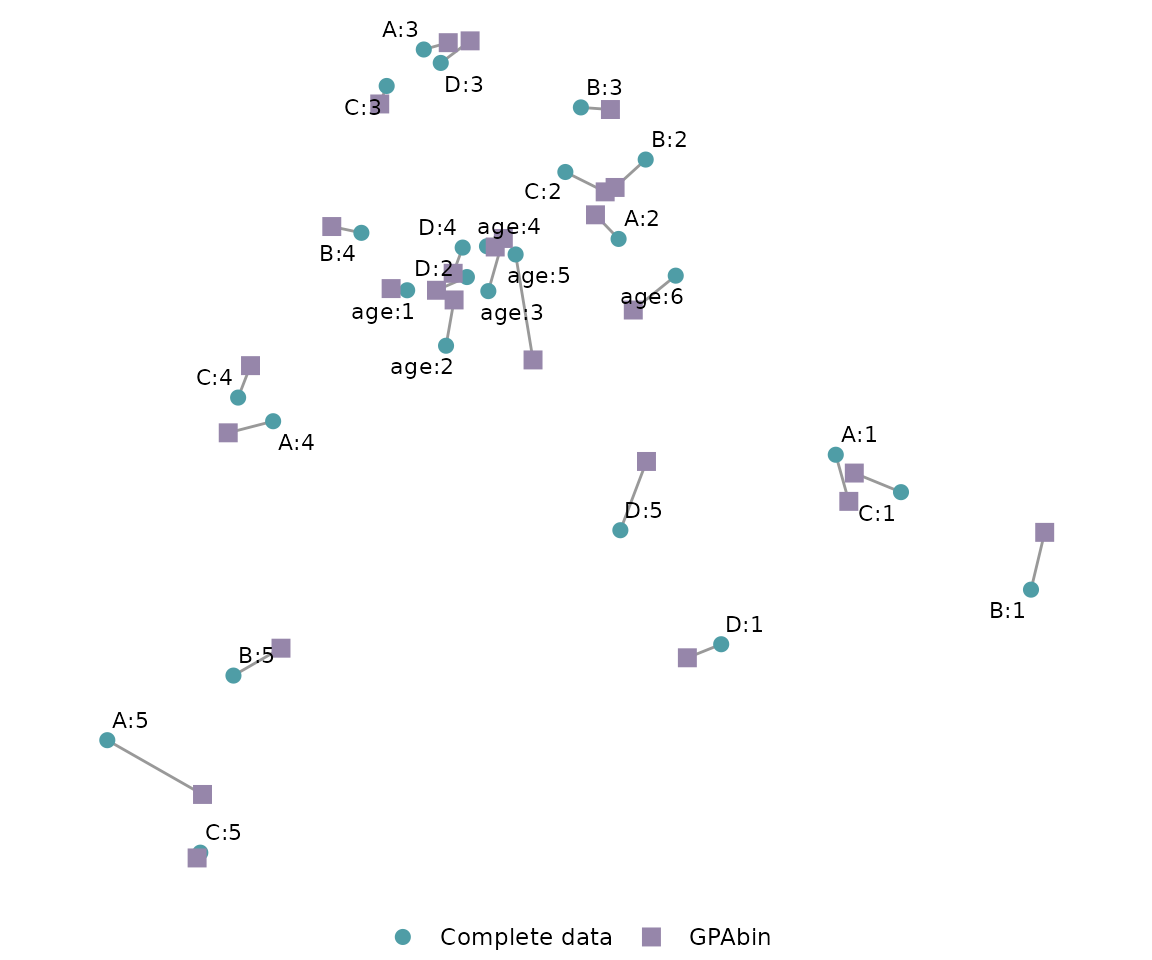
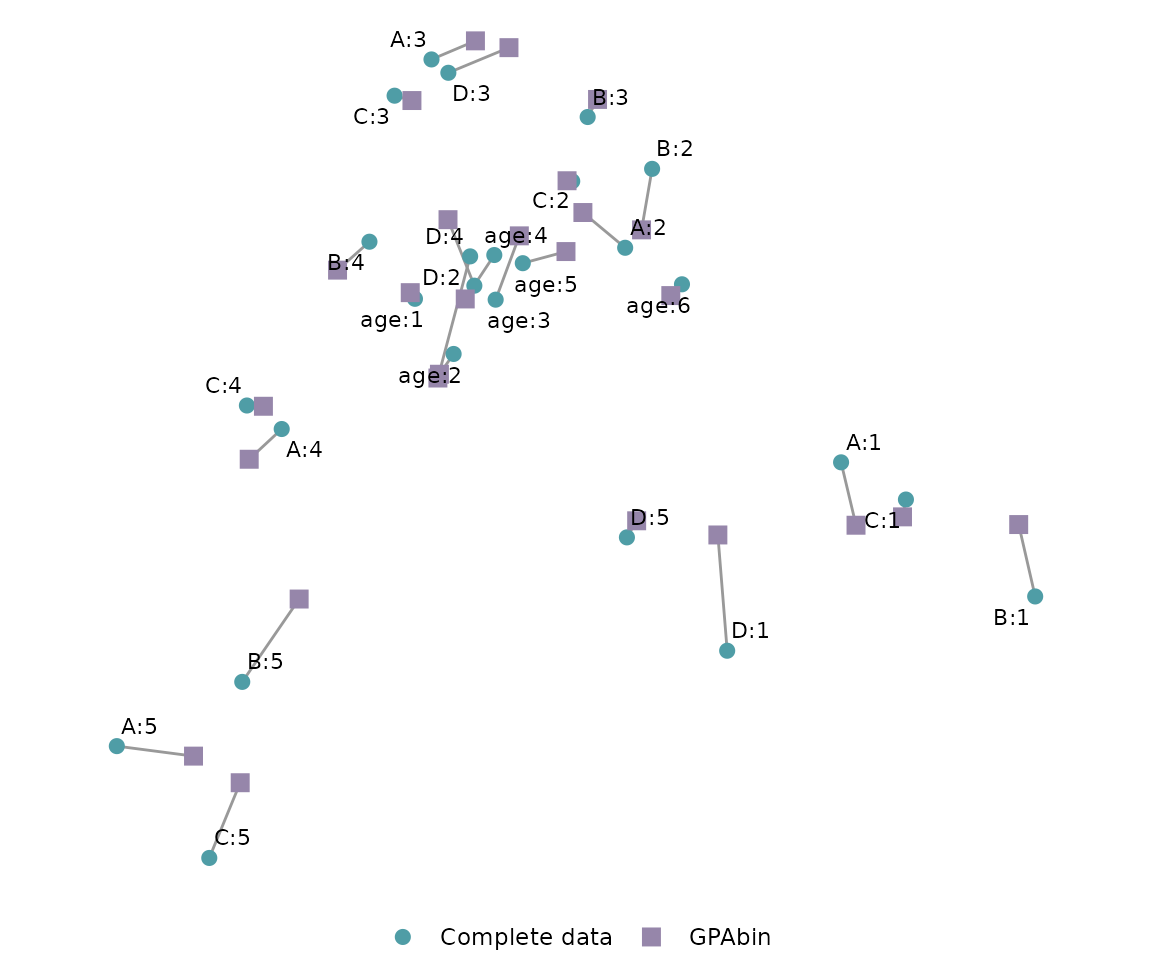
Deploying to gh-pages from @ jnienk/GPAbin@68e3c36781d71b4ac56901b5387d6e580959e749 🚀

diff --git a/reference/plot.missmi.html b/reference/plot.missmi.html
@@ -1,5 +1,7 @@
 <!DOCTYPE html>
-<!-- Generated by pkgdown: do not edit by hand --><html lang="en"><head><meta http-equiv="Content-Type" content="text/html; charset=UTF-8"><meta charset="utf-8"><meta http-equiv="X-UA-Compatible" content="IE=edge"><meta name="viewport" content="width=device-width, initial-scale=1, shrink-to-fit=no"><title>Biplot function — plot.missmi • GPAbin</title><!-- favicons --><link rel="icon" type="image/png" sizes="96x96" href="../favicon-96x96.png"><link rel="icon" type="”image/svg+xml”" href="../favicon.svg"><link rel="apple-touch-icon" sizes="180x180" href="../apple-touch-icon.png"><link rel="icon" sizes="any" href="../favicon.ico"><link rel="manifest" href="../site.webmanifest"><script src="../deps/jquery-3.6.0/jquery-3.6.0.min.js"></script><meta name="viewport" content="width=device-width, initial-scale=1, shrink-to-fit=no"><link href="../deps/bootstrap-5.3.8/bootstrap.min.css" rel="stylesheet"><script src="../deps/bootstrap-5.3.8/bootstrap.bundle.min.js"></script><link href="../deps/font-awesome-6.5.2/css/all.min.css" rel="stylesheet"><link href="../deps/font-awesome-6.5.2/css/v4-shims.min.css" rel="stylesheet"><script src="../deps/headroom-0.11.0/headroom.min.js"></script><script src="../deps/headroom-0.11.0/jQuery.headroom.min.js"></script><script src="../deps/bootstrap-toc-1.0.1/bootstrap-toc.min.js"></script><script src="../deps/clipboard.js-2.0.11/clipboard.min.js"></script><script src="../deps/search-1.0.0/autocomplete.jquery.min.js"></script><script src="../deps/search-1.0.0/fuse.min.js"></script><script src="../deps/search-1.0.0/mark.min.js"></script><!-- pkgdown --><script src="../pkgdown.js"></script><meta property="og:title" content="Biplot function — plot.missmi"><meta name="description" content="biplFig() was renamed to plot()."><meta property="og:description" content="biplFig() was renamed to plot()."><meta property="og:image" content="https://jnienk.github.io/GPAbin/logo.png"></head><body>
+<!-- Generated by pkgdown: do not edit by hand --><html lang="en"><head><meta http-equiv="Content-Type" content="text/html; charset=UTF-8"><meta charset="utf-8"><meta http-equiv="X-UA-Compatible" content="IE=edge"><meta name="viewport" content="width=device-width, initial-scale=1, shrink-to-fit=no"><title>Biplot function — plot.missmi • GPAbin</title><!-- favicons --><link rel="icon" type="image/png" sizes="96x96" href="../favicon-96x96.png"><link rel="icon" type="”image/svg+xml”" href="../favicon.svg"><link rel="apple-touch-icon" sizes="180x180" href="../apple-touch-icon.png"><link rel="icon" sizes="any" href="../favicon.ico"><link rel="manifest" href="../site.webmanifest"><script src="../deps/jquery-3.6.0/jquery-3.6.0.min.js"></script><meta name="viewport" content="width=device-width, initial-scale=1, shrink-to-fit=no"><link href="../deps/bootstrap-5.3.8/bootstrap.min.css" rel="stylesheet"><script src="../deps/bootstrap-5.3.8/bootstrap.bundle.min.js"></script><link href="../deps/font-awesome-6.5.2/css/all.min.css" rel="stylesheet"><link href="../deps/font-awesome-6.5.2/css/v4-shims.min.css" rel="stylesheet"><script src="../deps/headroom-0.11.0/headroom.min.js"></script><script src="../deps/headroom-0.11.0/jQuery.headroom.min.js"></script><script src="../deps/bootstrap-toc-1.0.1/bootstrap-toc.min.js"></script><script src="../deps/clipboard.js-2.0.11/clipboard.min.js"></script><script src="../deps/search-1.0.0/autocomplete.jquery.min.js"></script><script src="../deps/search-1.0.0/fuse.min.js"></script><script src="../deps/search-1.0.0/mark.min.js"></script><!-- pkgdown --><script src="../pkgdown.js"></script><meta property="og:title" content="Biplot function — plot.missmi"><meta name="description" content="Creates a multiple correspondence analysis (MCA) biplot
+biplFig() was renamed to plot()."><meta property="og:description" content="Creates a multiple correspondence analysis (MCA) biplot
+biplFig() was renamed to plot()."><meta property="og:image" content="https://jnienk.github.io/GPAbin/logo.png"></head><body>
     <a href="#main" class="visually-hidden-focusable">Skip to contents</a>
 
 
@@ -34,14 +36,15 @@
     </div>
 
     <div class="ref-description section level2">
-    <p><code>biplFig()</code> was renamed to <code><a href="https://rdrr.io/r/graphics/plot.default.html" class="external-link">plot()</a></code>.</p>
+    <p>Creates a multiple correspondence analysis (MCA) biplot
+<code>biplFig()</code> was renamed to <code><a href="https://rdrr.io/r/graphics/plot.default.html" class="external-link">plot()</a></code>.</p>
     </div>
 
     <div class="section level2">
     <h2 id="ref-usage">Usage<a class="anchor" aria-label="anchor" href="#ref-usage"></a></h2>
     <div class="sourceCode"><pre class="sourceCode r"><code><span><span class="co"># S3 method for class 'missmi'</span></span>
 <span><span class="fu"><a href="https://rdrr.io/r/graphics/plot.default.html" class="external-link">plot</a></span><span class="op">(</span></span>
-<span>  <span class="va">missbp</span>,</span>
+<span>  <span class="va">x</span>,</span>
 <span>  engine <span class="op">=</span> <span class="fu"><a href="https://rdrr.io/r/base/c.html" class="external-link">c</a></span><span class="op">(</span><span class="st">"ggplot2"</span>, <span class="st">"base"</span><span class="op">)</span>,</span>
 <span>  Z.col <span class="op">=</span> <span class="st">"#61223b"</span>,</span>
 <span>  CLP.col <span class="op">=</span> <span class="st">"#b79962"</span>,</span>
@@ -54,7 +57,7 @@
 <span><span class="op">)</span></span>
 <span></span>
 <span><span class="fu">biplFig</span><span class="op">(</span></span>
-<span>  <span class="va">missbp</span>,</span>
+<span>  <span class="va">x</span>,</span>
 <span>  engine <span class="op">=</span> <span class="fu"><a href="https://rdrr.io/r/base/c.html" class="external-link">c</a></span><span class="op">(</span><span class="st">"ggplot2"</span>, <span class="st">"base"</span><span class="op">)</span>,</span>
 <span>  Z.col <span class="op">=</span> <span class="st">"#61223b"</span>,</span>
 <span>  CLP.col <span class="op">=</span> <span class="st">"#b79962"</span>,</span>
@@ -71,8 +74,8 @@
     <h2 id="arguments">Arguments<a class="anchor" aria-label="anchor" href="#arguments"></a></h2>
 
 
-<dl><dt id="arg-missbp">missbp<a class="anchor" aria-label="anchor" href="#arg-missbp"></a></dt>
-<dd><p>An object of class <code>missbp</code> obtained from preceding function <code><a href="missmi.html">missmi()</a></code>.</p></dd>
+<dl><dt id="arg-x">x<a class="anchor" aria-label="anchor" href="#arg-x"></a></dt>
+<dd><p>An object of class <code>missmi</code>, obtained from preceding function <code><a href="missmi.html">missmi()</a></code>.</p></dd>
 
 
 <dt id="arg-engine">engine<a class="anchor" aria-label="anchor" href="#arg-engine"></a></dt>
@@ -106,28 +109,36 @@
 <dt id="arg-title">title<a class="anchor" aria-label="anchor" href="#arg-title"></a></dt>
 <dd><p>Title of the GPAbin biplot.</p></dd>
 
+
+<dt id="arg--">...<a class="anchor" aria-label="anchor" href="#arg--"></a></dt>
+<dd><p>additional arguments.</p></dd>
+
 </dl></div>
     <div class="section level2">
     <h2 id="value">Value<a class="anchor" aria-label="anchor" href="#value"></a></h2>
 
-<ul><li><p>If <code>compdat = NULL</code> in <code><a href="evaluation.html">evalMeas</a></code>, only a GPAbin biplot will be constructed.</p></li>
-<li><p>If a complete data set (<code>compdat</code>) was specified in <code><a href="evaluation.html">evalMeas</a></code>, two biplots will be constructed: (1) Complete MCA biplot and (2) GPAbin biplot.</p></li>
+<ul><li><p>If <code>compdat = NULL</code> in <code><a href="evaluation.html">evaluation</a></code>, only a GPAbin biplot will be constructed.</p></li>
+<li><p>If a complete data set (<code>compdat</code>) was specified in <code><a href="evaluation.html">evaluation</a></code>, two biplots will be constructed: (1) Complete MCA biplot and (2) GPAbin biplot.</p></li>
 </ul></div>
-    <div class="section level2">
-    <h2 id="details">Details<a class="anchor" aria-label="anchor" href="#details"></a></h2>
-    <p>Creates a multiple correspondence analysis (MCA) biplot</p>
-    </div>
 
     <div class="section level2">
     <h2 id="ref-examples">Examples<a class="anchor" aria-label="anchor" href="#ref-examples"></a></h2>
     <div class="sourceCode"><pre class="sourceCode r"><code><span class="r-in"><span><span class="fu"><a href="https://rdrr.io/r/utils/data.html" class="external-link">data</a></span><span class="op">(</span><span class="va">implist</span><span class="op">)</span></span></span>
-<span class="r-in"><span><span class="va">missbp</span> <span class="op">&lt;-</span> <span class="fu"><a href="missmi.html">missmi</a></span><span class="op">(</span><span class="va">implist</span><span class="op">)</span><span class="op">|&gt;</span> <span class="fu"><a href="DRT.html">DRT</a></span><span class="op">(</span><span class="op">)</span> <span class="op">|&gt;</span> <span class="fu"><a href="GPAbin.html">GPAbin</a></span><span class="op">(</span><span class="op">)</span> <span class="op">|&gt;</span> <span class="fu"><a href="https://rdrr.io/r/graphics/plot.default.html" class="external-link">plot</a></span><span class="op">(</span>title <span class="op">=</span> <span class="st">"GPAbin biplot"</span><span class="op">)</span></span></span>
-<span class="r-plt img"><img src="plot.missmi-1.png" alt="" width="700" height="433"></span>
 <span class="r-in"><span><span class="fu"><a href="https://rdrr.io/r/utils/data.html" class="external-link">data</a></span><span class="op">(</span><span class="va">compdat</span><span class="op">)</span></span></span>
-<span class="r-in"><span><span class="fu"><a href="missmi.html">missmi</a></span><span class="op">(</span><span class="va">implist</span><span class="op">)</span> <span class="op">|&gt;</span> <span class="fu"><a href="DRT.html">DRT</a></span><span class="op">(</span><span class="op">)</span> <span class="op">|&gt;</span> <span class="fu"><a href="GPAbin.html">GPAbin</a></span><span class="op">(</span><span class="op">)</span> <span class="op">|&gt;</span> <span class="fu"><a href="evaluation.html">evalMeas</a></span><span class="op">(</span>compdat<span class="op">=</span><span class="va">compdat</span><span class="op">)</span> <span class="op">|&gt;</span> <span class="fu"><a href="https://rdrr.io/r/graphics/plot.default.html" class="external-link">plot</a></span><span class="op">(</span><span class="op">)</span></span></span>
+<span class="r-in"><span><span class="va">missbp</span> <span class="op">&lt;-</span> <span class="fu"><a href="missmi.html">missmi</a></span><span class="op">(</span><span class="va">implist</span><span class="op">)</span><span class="op">|&gt;</span> <span class="fu"><a href="DRT.html">DRT</a></span><span class="op">(</span><span class="op">)</span> <span class="op">|&gt;</span> <span class="fu"><a href="GPAbin.html">GPAbin</a></span><span class="op">(</span><span class="op">)</span> <span class="op">|&gt;</span> </span></span>
+<span class="r-in"><span><span class="fu"><a href="evaluation.html">evaluation</a></span><span class="op">(</span>compdat <span class="op">=</span> <span class="va">compdat</span><span class="op">)</span> <span class="op">|&gt;</span> <span class="fu"><a href="https://rdrr.io/r/graphics/plot.default.html" class="external-link">plot</a></span><span class="op">(</span><span class="op">)</span></span></span>
+<span class="r-plt img"><img src="plot.missmi-1.png" alt="" width="700" height="433"></span>
 <span class="r-plt img"><img src="plot.missmi-2.png" alt="" width="700" height="433"></span>
+<span class="r-in"><span></span></span>
+<span class="r-in"><span><span class="co">### GPAbin biplot</span></span></span>
+<span class="r-in"><span></span></span>
+<span class="r-in"><span><span class="va">missbp</span><span class="op">$</span><span class="va">plot</span></span></span>
 <span class="r-plt img"><img src="plot.missmi-3.png" alt="" width="700" height="433"></span>
-<span class="r-out co"><span class="r-pr">#&gt;</span> [1] "There are 5 imputations / variations of your data available."</span>
+<span class="r-in"><span></span></span>
+<span class="r-in"><span><span class="co">### MCA biplot</span></span></span>
+<span class="r-in"><span></span></span>
+<span class="r-in"><span><span class="va">missbp</span><span class="op">$</span><span class="va">plotC</span></span></span>
+<span class="r-plt img"><img src="plot.missmi-4.png" alt="" width="700" height="433"></span>
 <span class="r-in"><span></span></span>
 </code></pre></div>
     </div>

diff --git a/news/index.html b/news/index.html
@@ -38,7 +38,10 @@
 <li>
 <p>New function names:</p>
 <ul><li><p><code>evaluation</code> is used in the place of <code>evalMeas</code>.</p></li>
-<li><p><code>plot</code> is used in the place of <code>biplFig</code>.</p></li>
+<li>
+<p><code>plot</code> is used in the place of <code>biplFig</code>.</p>
+<ul><li>The first argument of <code>plot</code> is now <code>x</code>, for consistency with the generic <code><a href="https://rdrr.io/r/graphics/plot.default.html" class="external-link">plot()</a></code> function. This argument is typically not explicitly called.</li>
+</ul></li>
 </ul></li>
 <li><p>A vignette has been added that walks through the full workflow.</p></li>
 </ul></div>

diff --git a/articles/GPAbin.html b/articles/GPAbin.html
@@ -450,23 +450,23 @@ one.</p>
 <tbody>
 <tr class="odd">
 <td align="left">1-PS</td>
-<td align="right">0.8089</td>
+<td align="right">0.8033</td>
 </tr>
 <tr class="even">
 <td align="left">SP</td>
-<td align="right">0.8581</td>
+<td align="right">0.8592</td>
 </tr>
 <tr class="odd">
 <td align="left">RPR</td>
-<td align="right">0.4914</td>
+<td align="right">0.4994</td>
 </tr>
 <tr class="even">
 <td align="left">AMB</td>
-<td align="right">0.2100</td>
+<td align="right">0.2313</td>
 </tr>
 <tr class="odd">
 <td align="left">RMSB</td>
-<td align="right">0.2963</td>
+<td align="right">0.3133</td>
 </tr>
 </tbody>
 </table>

diff --git a/reference/plot.missmi.md b/reference/plot.missmi.md
@@ -1,14 +1,14 @@
 # Biplot function
 
-`biplFig()` was renamed to
-[`plot()`](https://rdrr.io/r/graphics/plot.default.html).
+Creates a multiple correspondence analysis (MCA) biplot `biplFig()` was
+renamed to [`plot()`](https://rdrr.io/r/graphics/plot.default.html).
 
 ## Usage
 
 ``` r
 # S3 method for class 'missmi'
 plot(
-  missbp,
+  x,
   engine = c("ggplot2", "base"),
   Z.col = "#61223b",
   CLP.col = "#b79962",
@@ -21,7 +21,7 @@ plot(
 )
 
 biplFig(
-  missbp,
+  x,
   engine = c("ggplot2", "base"),
   Z.col = "#61223b",
   CLP.col = "#b79962",
@@ -36,9 +36,9 @@ biplFig(
 
 ## Arguments
 
-- missbp:
+- x:
 
-  An object of class `missbp` obtained from preceding function
+  An object of class `missmi`, obtained from preceding function
   [`missmi()`](https://jnienk.github.io/GPAbin/reference/missmi.md).
 
 - engine:
@@ -74,30 +74,38 @@ biplFig(
 
   Title of the GPAbin biplot.
 
+- ...:
+
+  additional arguments.
+
 ## Value
 
 - If `compdat = NULL` in
-  [`evalMeas`](https://jnienk.github.io/GPAbin/reference/evaluation.md),
+  [`evaluation`](https://jnienk.github.io/GPAbin/reference/evaluation.md),
   only a GPAbin biplot will be constructed.
 
 - If a complete data set (`compdat`) was specified in
-  [`evalMeas`](https://jnienk.github.io/GPAbin/reference/evaluation.md),
+  [`evaluation`](https://jnienk.github.io/GPAbin/reference/evaluation.md),
   two biplots will be constructed: (1) Complete MCA biplot and (2)
   GPAbin biplot.
-
-## Details
-
-Creates a multiple correspondence analysis (MCA) biplot
 
 ## Examples
 
 ``` r
 data(implist)
-missbp <- missmi(implist)|> DRT() |> GPAbin() |> plot(title = "GPAbin biplot")
-
 data(compdat)
-missmi(implist) |> DRT() |> GPAbin() |> evalMeas(compdat=compdat) |> plot()
+missbp <- missmi(implist)|> DRT() |> GPAbin() |> 
+evaluation(compdat = compdat) |> plot()
 
 
-#> [1] "There are 5 imputations / variations of your data available."
+
+### GPAbin biplot
+
+missbp$plot
+
+
+### MCA biplot
+
+missbp$plotC
+
 ```

diff --git a/articles/GPAbin.md b/articles/GPAbin.md
@@ -318,11 +318,11 @@ missbp$eval.tab
 
 |      | Evaluation measures |
 |:-----|--------------------:|
-| 1-PS |              0.8089 |
-| SP   |              0.8581 |
-| RPR  |              0.4914 |
-| AMB  |              0.2100 |
-| RMSB |              0.2963 |
+| 1-PS |              0.8033 |
+| SP   |              0.8592 |
+| RPR  |              0.4994 |
+| AMB  |              0.2313 |
+| RMSB |              0.3133 |
 
 The table contains five measures:
 

diff --git a/news/index.md b/news/index.md
@@ -10,6 +10,10 @@
 
   - `plot` is used in the place of `biplFig`.
 
+    - The first argument of `plot` is now `x`, for consistency with the
+      generic [`plot()`](https://rdrr.io/r/graphics/plot.default.html)
+      function. This argument is typically not explicitly called.
+
 - A vignette has been added that walks through the full workflow.
 
 ## GPAbin 1.1.1
